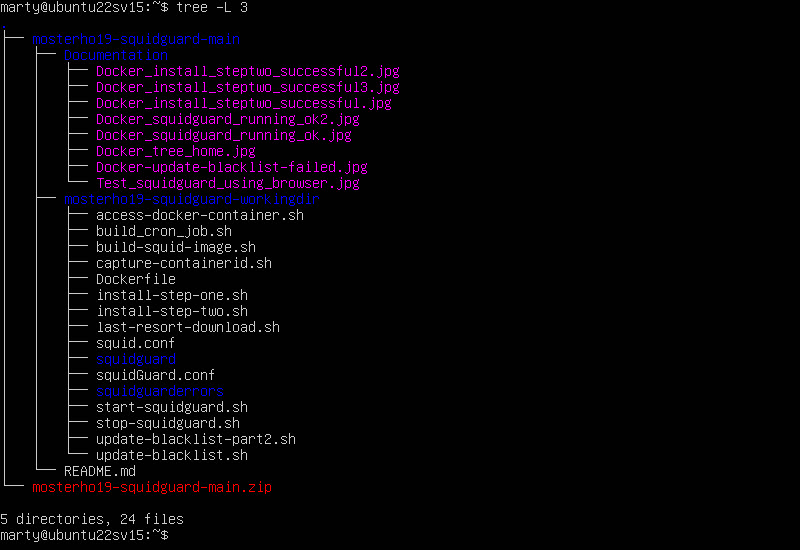
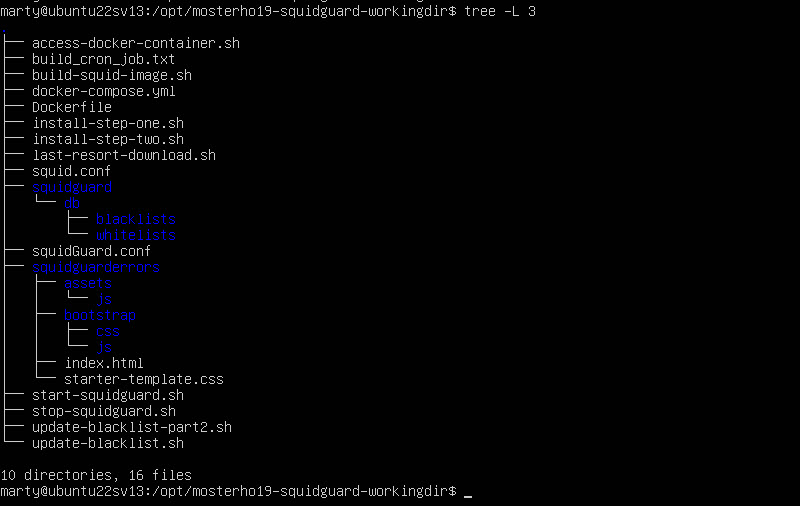
Minor changes to documentation.

Changed region(s): [[0.0, 0.0593, 0.5625, 1.0], [0.0, 0.0, 0.625, 0.0296], [0.3125, 0.8597, 0.3438, 0.8893]]

diff --git a/README.md b/README.md
@@ -79,13 +79,12 @@ The results should look similar to this (as documentation is modified, the numbe
 
 ## Make Changes to .conf Files
 <ol>
-<li>You <mark>may</mark> need to make changes to squid.conf, squidGuard.conf and start-squidguard.sh, and <mark>should</mark> change the email address in the update-blacklist.sh.
+<li>You <mark>may</mark> need to make changes to squid.conf and squidGuard.conf, and <mark>should</mark> change the email address in the update-blacklist.sh file.
 <li>The names and purposes of some of the important objects in the mosterho19-squidguard-workingdir directory are:
 	<ul> 
 	<li>file "squid.conf" -- there are over 9000 lines in the original squid.conf file; this file contains about 100 lines. All of the uncommented lines with some of the important comments were included. This contains the minimum required to get squidguard up and running. You may need to tweak this file to get your container up and running 
 	<li>(e.g., even though it is commented out, I assume you don't need the dns_nameservers tag at the very end; I just happen to use an Intranet). 
 	<li>file "squidGuard.conf" -- Currently setup to include all localnet IP addresses, a blacklist, and whitelist. The blacklists currently include ads, adult, and malware. You may need to change the IP address of the redirect statement to match the IP of the Ubuntu server; however using Docker's IP 172.17.0.1 works for me. 
-	<li>file "start-squidguard.sh" -- The script uses the system's time zone, but you can change the timezone in the .yml file for your needs.
 	<li>file "update-blacklist.sh" -- consider changing the email address used as the password in the "wget" command. This FTP site allows the user to be "anonymous", so please follow netiquette and use a legitimate email address as the password.
 	<li>directory "squidguard" -- The blacklist and whitelist files will be setup in this directory. 
 	<li>directory "squidguarderrors" -- This is used by the httpd image. This contains a couple folders and an index.html file. The html file is used for issuing a warning message when attempting to display a blacklisted site.
